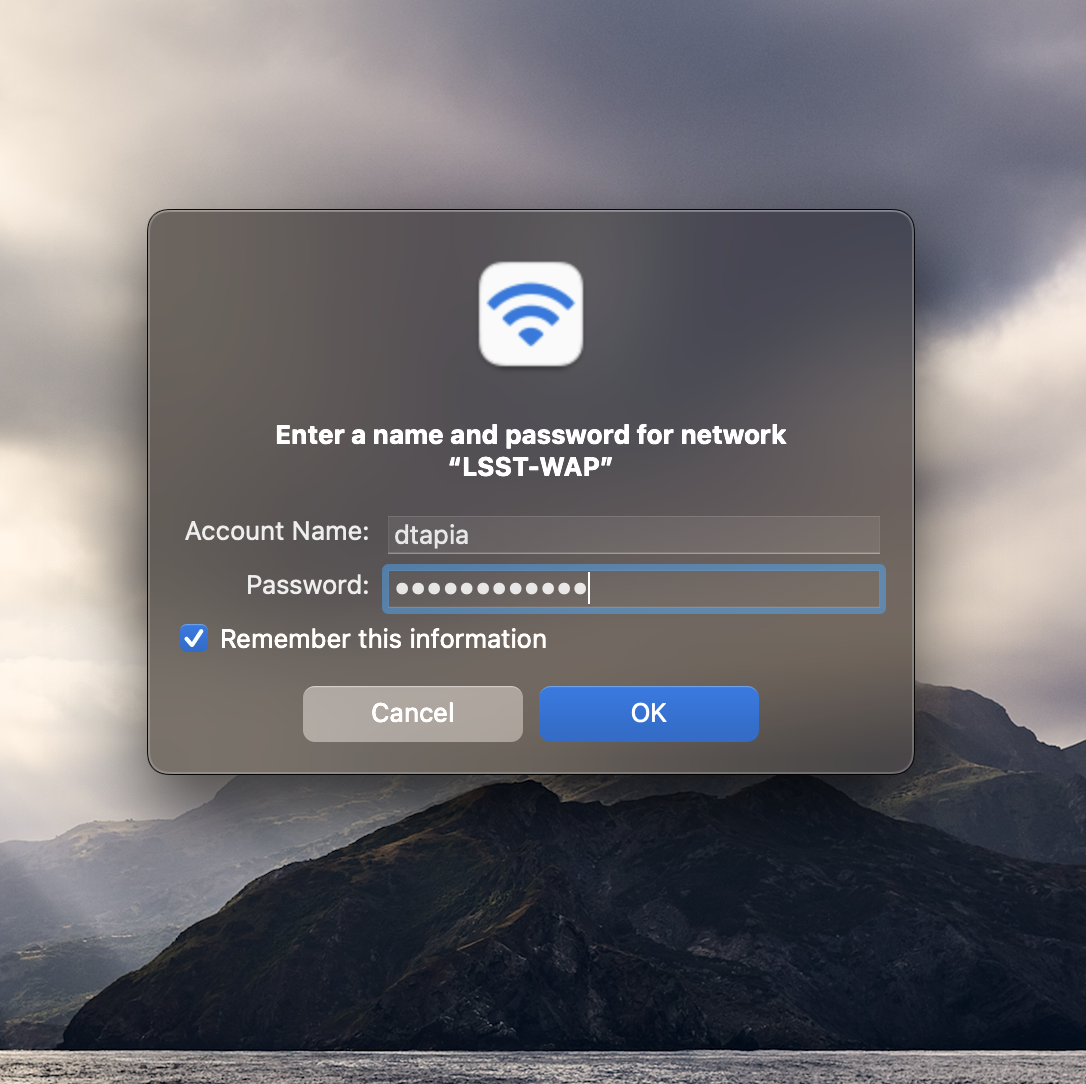
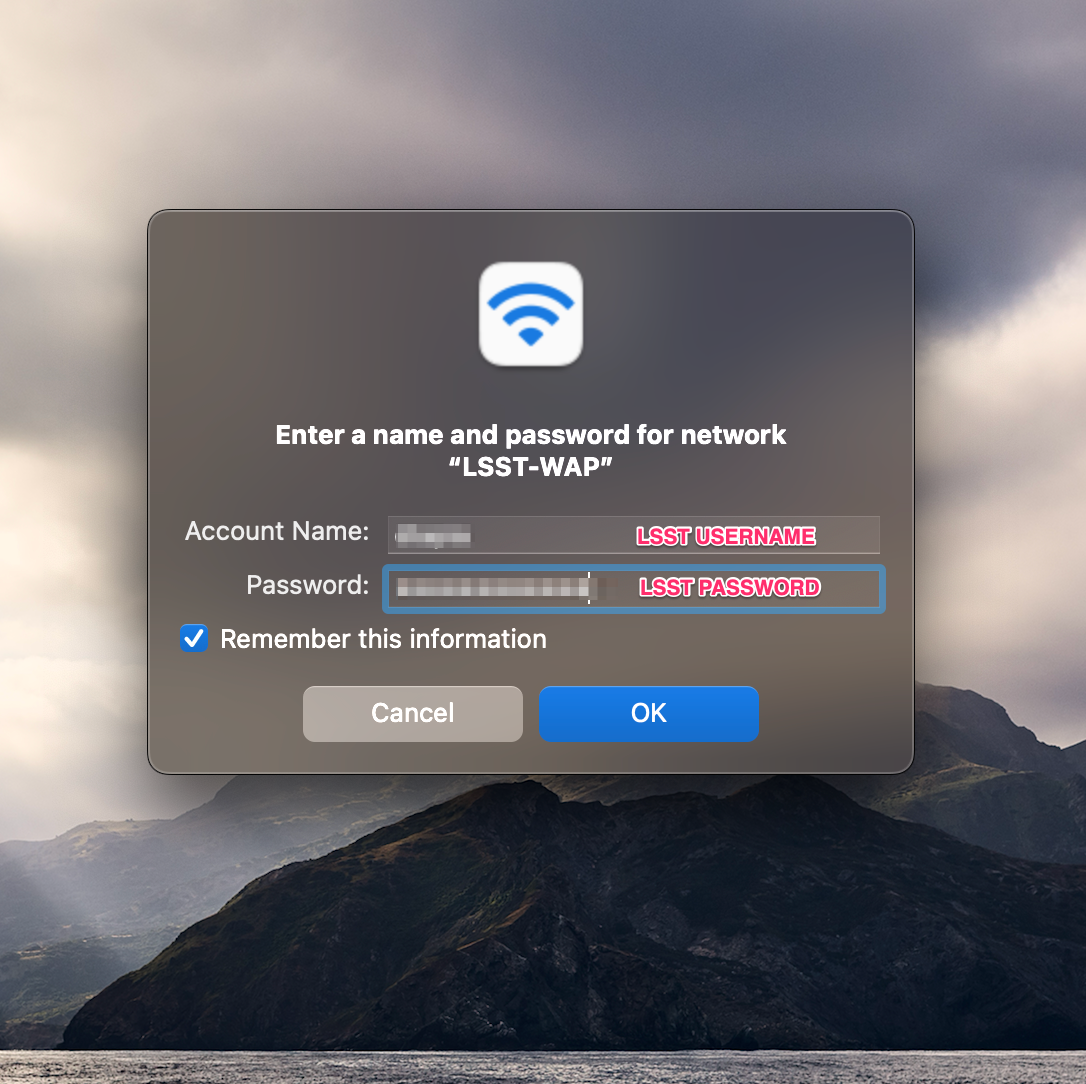
Update to Images and Blurring

diff --git a/technical.tex b/technical.tex
@@ -228,13 +228,13 @@ To request Domain Account Credentials, it is required that an Onboarding form is
   \begin{figure}
     \centering
     \begin{subfigure}{0.4\textwidth}
-      \includegraphics[width=\textwidth]{Images/Android1.jpg}
+      \includegraphics[width=\textwidth]{Images/Android1.png}
       \centering
       1.) Select the LSST-WAP WIFI Network from the list.
     \end{subfigure}
       \hfill
     \begin{subfigure}{0.25\textwidth}
-      \includegraphics[width=\textwidth]{Images/Android2.jpg}
+      \includegraphics[width=\textwidth]{Images/Android2.png}
       \centering
       2.) Fill out the fields highlighted in red as show on the image.
     \end{subfigure}
@@ -242,11 +242,11 @@ To request Domain Account Credentials, it is required that an Onboarding form is
   \begin{figure}
     \centering
     \begin{subfigure}{0.40\textwidth}
-      \includegraphics[width=\textwidth]{Images/Android3.jpg}
+      \includegraphics[width=\textwidth]{Images/Android3.png}
     \end{subfigure}
       \hfill
     \begin{subfigure}{0.40\textwidth}
-      \includegraphics[width=\textwidth]{Images/Android4.jpg}
+      \includegraphics[width=\textwidth]{Images/Android4.png}
     \end{subfigure}
   \end{figure}
 
